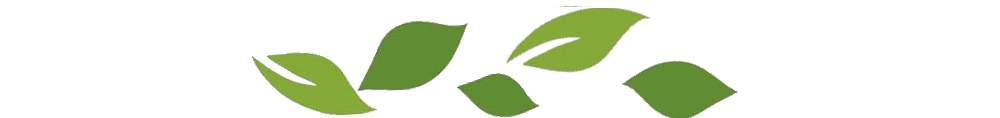
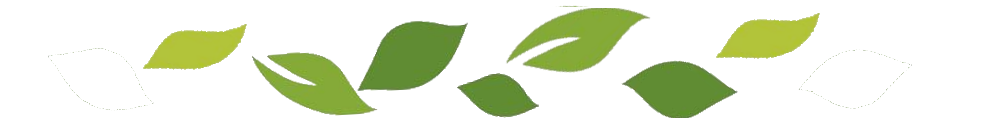
Add a lot of leaves

diff --git a/src/tree.js b/src/tree.js
@@ -2,6 +2,7 @@ import config from '../config.js';
 import styles from './tree.css';
 import RootNode from './root-node';
 import TreeNode from './tree-node';
+import LeafImg from './leaf-img';
 
 class Tree {
 
@@ -47,30 +48,40 @@ class Tree {
 	}
 
 
-	// Decorative leaves
+	// Tree-level leaves (does not divide nodes) 
+	// Node leaves are added via CSS 
 	getLeafImages() {
 		const imgWrapper = document.createElement('div')
 		imgWrapper.className = styles.leafImgs
 		Object.keys(this.metadata.depthCounts).forEach((depth) => {
-			const leavesInRow = Math.round(depth * 6);
-			// const leavesInRow = 10;
-			console.log(leavesInRow);
+			console.log(this.metadata);
+			// The lines between each depth 
+			const leavesInRow = Math.round(depth * 9);
+			// const thetaStart = this.metadata.depthMinThetas[depth];
+			const thetaStart = Math.min(...this.metadata.depthMinThetas.slice(1));
+			// const thetaEnd = Math.PI * 2 + (Math.PI - thetaStart);
+			const thetaEnd = Math.PI * 2 + (Math.PI - Math.min(...this.metadata.depthMinThetas.slice(1)));
 			[...Array(leavesInRow)].forEach((_, idx) => {
-				const img = document.createElement('img')
-				img.className = styles.leafImg;
-				img.src = `/images/leaves${idx % 3 + 1}.png`;
-				const thetaStart = Math.PI + (Math.PI - config.maxAngle) / 2;
-				const theta = thetaStart + (config.maxAngle / leavesInRow) * (idx + 0.5) ;
-				const r = ((100 / this.metadata.depthCounts.length) * depth) + 9;
-				console.log(r);
-				const x = (r * Math.cos(theta)) / 2 + 50; // Half because it goes left AND right
-				const y = (r * Math.sin(theta)) + 100; // Not half because it only goes up
-				const rotation = theta + Math.PI/2;
-				img.style.left = `${x}%`;
-				img.style.top = `${y}%`;
-				img.style.transform = `rotate(${rotation}rad)`
-				imgWrapper.appendChild(img);
+				const r = ((100 / this.metadata.depthCounts.length) * depth) + 10;
+				const theta = thetaStart + ((thetaEnd - thetaStart) / (leavesInRow - 1)) * idx;
+				const img = new LeafImg(r, theta, Math.PI / 2);
+				imgWrapper.appendChild(img.render());
+				const img2 = new LeafImg(r + 2, theta, Math.PI + Math.PI / 2);
+				imgWrapper.appendChild(img2.render());
 			});
+			// The "edge" leaves
+			if (depth != 0) {
+				// Left side
+				imgWrapper.appendChild(new LeafImg(
+					((100 / this.metadata.depthCounts.length) * depth),
+					thetaStart + config.edgeLeafOffset
+				).render());
+				// Right side
+				imgWrapper.appendChild(new LeafImg(
+					((100 / this.metadata.depthCounts.length) * depth),
+					thetaEnd - config.edgeLeafOffset
+				).render());
+			}
 		});
 		return imgWrapper;
 	}

diff --git a/src/tree-node.js b/src/tree-node.js
@@ -15,7 +15,11 @@ class TreeNode {
 		this.familyMember.calculations = calculations;
 		const depthClass = styles[`depth${this.familyMember.depth}`] || '';
 		const varietyClass = styles[`variety${this.familyMember.generationId % 3 + 1}`] || '';
-		this.el.className = `${styles.treeNode} ${calculations.half} ${depthClass} ${varietyClass} `;
+		const noBorderSide = config.noBorders[this.familyMember.name]
+			|| (this.familyMember.generationId == 1 && "Top")
+			|| (this.familyMember.generationId == this.metadata.depthCounts[this.familyMember.depth] && "Bottom");
+		const noBorderClass = noBorderSide ? styles[`noBorder${noBorderSide}`] : '';
+		this.el.className = `${styles.treeNode} ${calculations.half} ${depthClass} ${varietyClass} ${noBorderClass}`;
 		this.el.innerHTML = this.getNodeHtml(this.familyMember);
 		Object.assign(this.el.style, calculations.style);
 		return this.el;
@@ -50,17 +54,20 @@ class TreeNode {
 		const depth = this.familyMember.depth;
 		const maxDepth = this.metadata.depthCounts.length;
 		const r = (100 / maxDepth) * this.familyMember.depth;
-		const singleNodeTheta = maxTheta / this.metadata.depthCounts[depth];
+		const singleNodeTheta = maxTheta / (this.metadata.depthCounts[depth] - 1);
 		const childId = this.familyMember.childId;
 		const thetaStart = parentCalc ? parentCalc.theta : Math.PI + (Math.PI - maxTheta) / 2;
 		const prevSiblingTheta = this.familyMember.prevSibling && this.familyMember.prevSibling.calculations.theta || 0;
-		const theta0 = thetaStart + singleNodeTheta * (childId - (parentCalc ? config.bonusParentFactor : 0.5));
+		const theta0 = thetaStart + singleNodeTheta * (childId - (parentCalc ? config.bonusParentFactor : 1));
 		const theta1 = Math.max(prevSiblingTheta + config.minThetaBetweenSibs, theta0);
 		const theta = theta1 + (config.adjustments[this.familyMember.name] || 0);
 		const x = (r * Math.cos(theta)) / 2 + 50; // Half because it goes left AND right
-		const y = (r * Math.sin(theta)) + 100; // Not half because it only goes up
+		const y = (r * Math.sin(theta)) + 50; // Not half because it only goes up
+		console.log(this.el, x, y);
 		const isRightHalf = theta > (Math.PI + (Math.PI / 2));
-		const rotation = theta; // + (isRightHalf ? 0 : Math.PI);
+		if (this.familyMember.generationId == 1) {
+			this.metadata.depthMinThetas[depth] = theta;
+		}
 		return {
 			half: isRightHalf ? styles.right : styles.left,
 			singleNodeTheta: singleNodeTheta,
@@ -68,7 +75,7 @@ class TreeNode {
 			style: {
 				left: `${x}%`,
 				top: `${y}%`,
-				transform: `rotate(${rotation}rad)`
+				transform: `rotate(${theta}rad)`
 			}
 		}
 	}

diff --git a/src/tree-node.css b/src/tree-node.css
@@ -1,36 +1,29 @@
 .treeNode {
     position: absolute;
-    width: 200px;
-    margin-left: -100px;
+    width: 300px;
+    margin-left: -150px;
     text-align: center;
     white-space: nowrap;
     height: 50px;
+    border-top: 35px solid transparent;
+    border-bottom: 35px solid transparent;
 }
 
-.name {
-    font-family: 'Dancing Script', cursive;
-    font-weight: 700;
-    font-size: 1.2em;
+.treeNode:first-child:not(.noBorderTop),
+.treeNode:first-child:last-child:not(.noBorderTop)  {
+    border-image-slice: 124 0 0 0;
+    border-image-repeat: round none none none;
 }
 
-.date {
-    font-family: 'Shadows Into Light', cursive;
+.treeNode:last-child:not(.noBorderBottom),
+.treeNode:first-child:last-child:not(.noBorderBottom)  {
+    border-image-slice: 0 0 124 0;
+    border-image-repeat: none none round none;
 }
 
-.depth2 .member,
-.depth2 .spouse{
-    display: inline-block;
-}
-
-.treeNode { 
-    /* border: 1px dashed #f0f; */
-    padding: 5px;
-}
-
-.treeNode:first-child,
-.treeNode:last-child {
-    border-image-slice: 124;
-    border-image-repeat: round;
+.treeNode:first-child:last-child:not(.noBorderTop):not(.noBorderBottom) {
+    border-image-slice: 124 0 124 0;
+    border-image-repeat: round none round none;
 }
 
 .variety1 {
@@ -45,26 +38,37 @@
     border-image: url(../images/leaves3.png);
 }
 
-.treeNode:first-child {
-    border-top: 35px solid transparent;
+:global(.debugMode) .treeNode { 
+    border: 1px dashed #f0f !important;
+    border-image: none !important;
 }
 
-.treeNode:last-child{
-    border-bottom: 35px solid transparent;
+.name {
+    font-family: 'Dancing Script', cursive;
+    font-weight: 700;
+    font-size: 1.2em;
+}
+
+.date {
+    font-family: 'Shadows Into Light', cursive;
+}
+
+.member,
+.spouse{
+    display: inline-block;
 }
 
 .left > div{
     transform: rotate(180deg);
 }
 
-
 .rootNode {
     left: 50%;
-    bottom: -100px;
+    bottom: -40px;
     border: none !important;
     width: 250px;
     margin-left: -125px;
-    font-size: 1.5em;
+    font-size: 1.7em;
 }
 
 .rootNode .member {

diff --git a/src/leaf-img.js b/src/leaf-img.js
@@ -1,0 +1,26 @@
+import styles from './tree.css';
+
+var idx = 0;
+
+class LeafImg {
+	constructor(r, theta, extraRotation = 0) {
+        this.el = document.createElement('img');
+        this.r = r;
+        this.theta = theta;
+        this.extraRotation = extraRotation;
+    }
+    
+    render(){
+        const x = (this.r * Math.cos(this.theta)) / 2 + 50; // Half because it goes left AND right
+        const y = (this.r * Math.sin(this.theta)) + 50; // Not half because it only goes up
+        const rotation = this.theta + this.extraRotation;
+        this.el.className = styles.leafImg;
+        this.el.src = `/images/leaves${idx++ % 3 + 1}.png`;
+        this.el.style.left = `${x}%`;
+        this.el.style.top = `${y}%`;
+        this.el.style.transform = `rotate(${rotation}rad)`
+        return this.el;
+    }
+}
+
+export default LeafImg;

diff --git a/src/tree.css b/src/tree.css
@@ -5,11 +5,10 @@
     left: 0;
     position: absolute;
     font-family: helvetica, sans-serif;
-    background-image: url(/images/tree.png);
-    background-size: 200px;
+    background-image: url(/images/tree2.png);
+    background-size: 275px;
     background-repeat: no-repeat;
-    background-position: center bottom;
-    /* border: 1px solid #eee; */
+    background-position: center 75%;
     margin: auto;
 }
 
@@ -18,9 +17,6 @@
     top:0;
     bottom: 100px;
     width: 100%;
-}
-
-.leafImgs{
 }
 
 .leafImg {

diff --git a/src/index.js b/src/index.js
@@ -1,12 +1,13 @@
-import {data} from '../config.js';
+import config from '../config.js';
 import parse from './parse.js';
 import Tree from './tree.js';
 import styles from './index.css';
 
-const familyData = parse(data);
+const familyData = parse(config.data);
 const tree = new Tree(familyData);
 document.body.className = styles.body;
 document.body.appendChild(tree.render());
 
-// Testing
-console.log(familyData);
+if(config.debugMode){
+    document.body.classList.add('debugMode');
+}

diff --git a/src/parse.js b/src/parse.js
@@ -29,7 +29,7 @@ export default function (csvString) {
 
     // Calculate metadata, nodeIDs, and remove the temp _included field
     let nodeId = 0;
-    const metadata = { depthCounts: [1] }
+    const metadata = { depthCounts: [1], depthMinThetas:[undefined] }
     const prevSiblings = []; // This does not require same parent 
     const handleChildren = (children, depth = 0) => {
         depth++;

diff --git a/src/index.css b/src/index.css
@@ -1,6 +1,13 @@
 .body {
     font-family: "Helvetica Neue", Helvetica, sans-serif;
     color: #111111;
-	margin: 0 auto 50px auto;
-	font-size: 14px;
+    font-size: 14px;
+    position: absolute;
+    width: 2000px;
+    height: 1000px;
+    margin-top: 500px;
+}
+
+:global(.debugMode) img {
+    border: 1px dashed #f0f !important;
 }
